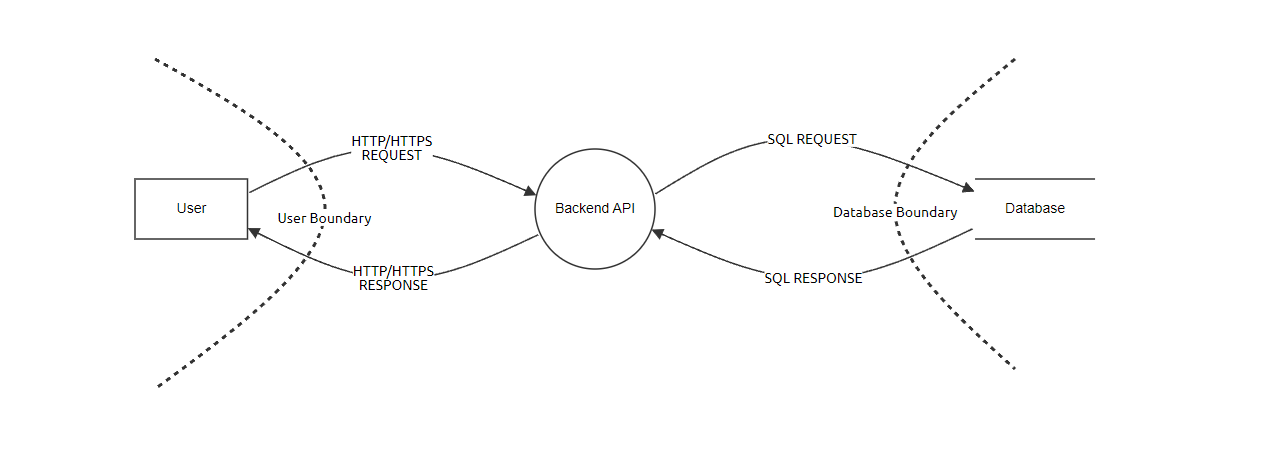
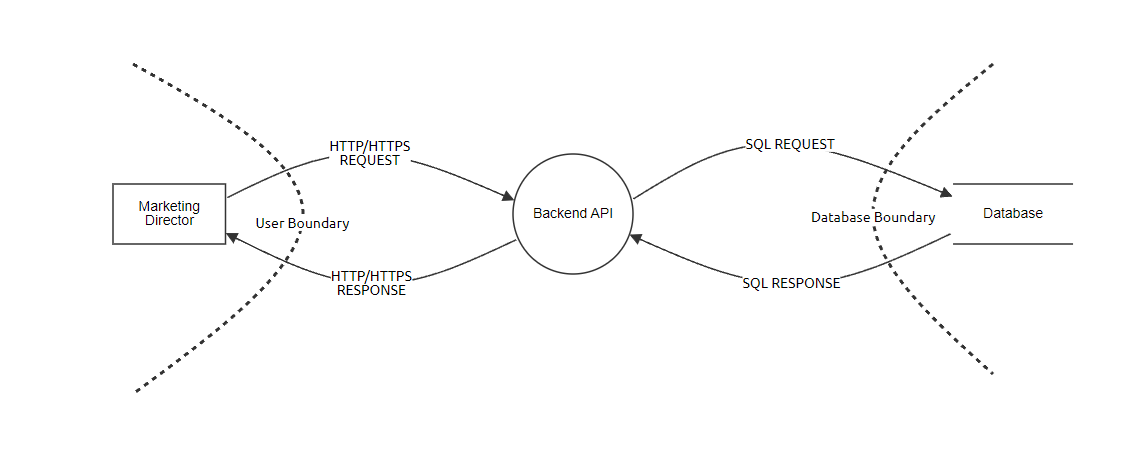
Added STRIDE for Plans

diff --git a/Deliverables/Phase1/ssdlc/STRIDE.md b/Deliverables/Phase1/ssdlc/STRIDE.md
@@ -52,6 +52,20 @@ Stride is a threat modeling framework that helps identify and categorize potenti
 
 ---
 
+### Plans
+
+| **Threat Category**       | **Security Property Violated** | **Description**                                                                                                                                                     |
+|---------------------------|-------------------------------|---------------------------------------------------------------------------------------------------------------------------------------------------------------------|
+| **Spoofing**              | Authentication                | Unauthorized users impersonate Marketing Director, which allows them to create, edit, or remove plans.                                                              |
+| **Tampering**             | Integrity                     | Attackers manipulate critical data in the database or in the requests, to keep access to plans or reduce a plan cost, which is possible due to the lack of security |
+| **Repudiation**           | Non-repudiation               | Users deny being able to access or view plans knowing there are no logs available.                                                                                  |
+| **Information Disclosure**| Confidentiality               | Sensitive data may be disclosured, due to improper access control, insecure data handling or response interception.                                                 |
+| **Denial of Service**     | Availability                  | Excessive amount of requests to view plans, impacts the system availability, either by reducing response time or shutting it down completely.                       |
+| **Elevation of Privilege**| Authorization                 | Unauthorized users are able to access to Marketing Director functionalities due to faulted role validation.                                                         |
+
+
+---
+
 ### Dashboard
 
 | **Threat Category**       | **Security Property Violated** | **Description**                                                                                   |
